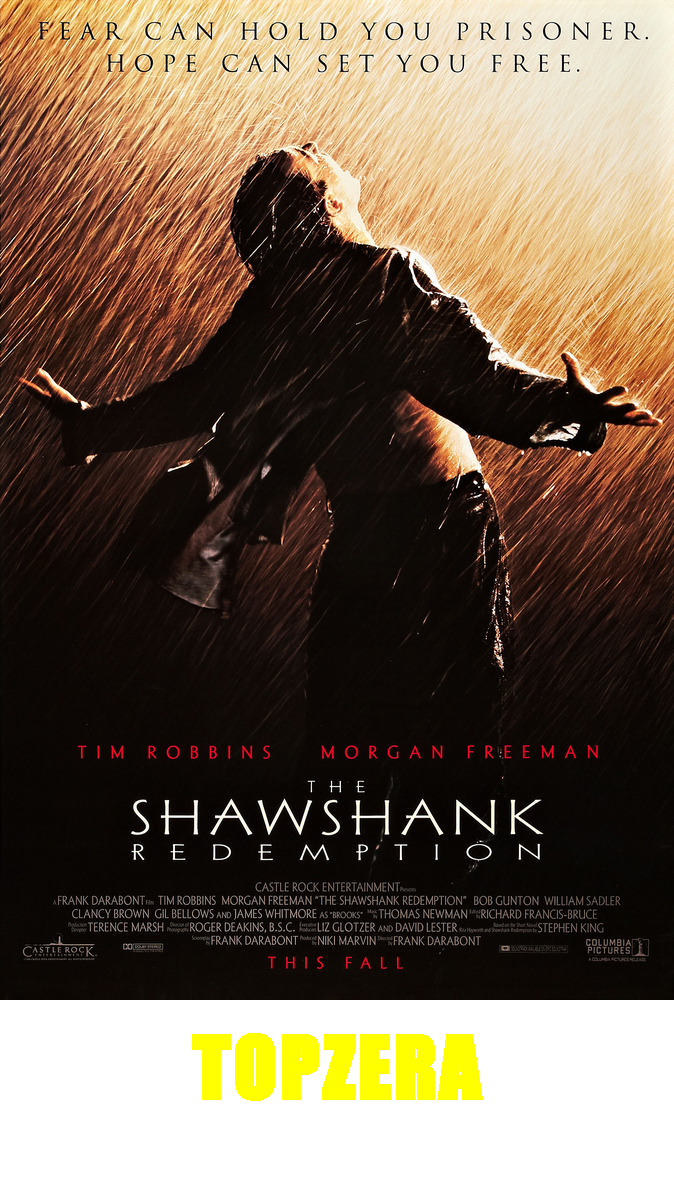
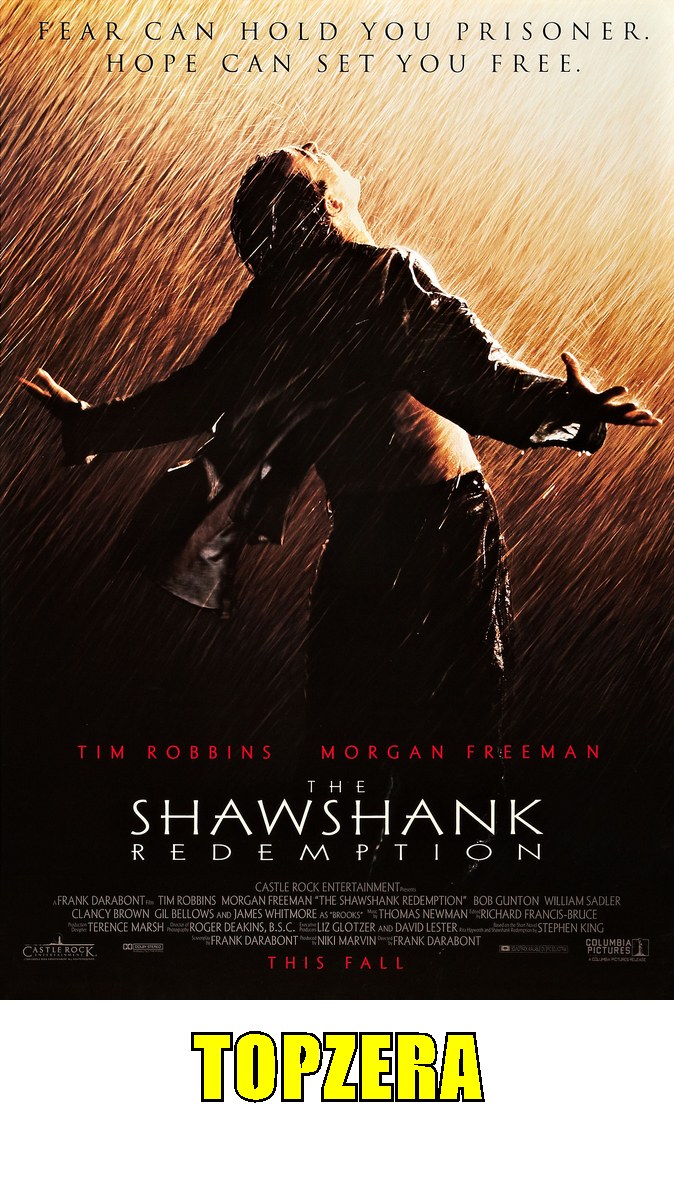
desafio 04

Changed region(s): [[0.2804, 0.8633, 0.7166, 0.925]]

diff --git a/alura-stickers/src/GeradoraDeFigurinhas.java b/alura-stickers/src/GeradoraDeFigurinhas.java
@@ -1,7 +1,12 @@
+import java.awt.BasicStroke;
 import java.awt.Color;
 import java.awt.Font;
 import java.awt.FontMetrics;
 import java.awt.Graphics2D;
+import java.awt.Shape;
+import java.awt.font.FontRenderContext;
+import java.awt.font.TextLayout;
+import java.awt.geom.AffineTransform;
 import java.awt.geom.Rectangle2D;
 import java.awt.image.BufferedImage;
 import java.io.File;
@@ -42,7 +47,23 @@ public class GeradoraDeFigurinhas {
         Rectangle2D retangulo = fontMetrics.getStringBounds(texto, graphics);
         int larguraTexto = (int)retangulo.getWidth();
         int posicaoTextoX = (largura - larguraTexto) / 2;
-        graphics.drawString(texto, posicaoTextoX, novaAltura - 100);
+        int posicaoTextoY = novaAltura - 100;
+        graphics.drawString(texto, posicaoTextoX, posicaoTextoY);
+
+        FontRenderContext fontRenderContext = graphics.getFontRenderContext();
+        var textLayout = new TextLayout(texto, fonte, fontRenderContext);
+
+        Shape outline = textLayout.getOutline(null);
+        AffineTransform transform = graphics.getTransform();
+        transform.translate(posicaoTextoX, posicaoTextoY);
+        graphics.setTransform(transform);
+
+        var outlineStroke = new BasicStroke(largura * 0.004f);
+        graphics.setStroke(outlineStroke);
+
+        graphics.setColor(Color.BLACK);
+        graphics.draw(outline);
+        graphics.setClip(outline);
 
         // escrever a nova imagem em um arquivo
         ImageIO.write(novaImagem, "png", new File(nomeArquivo));
